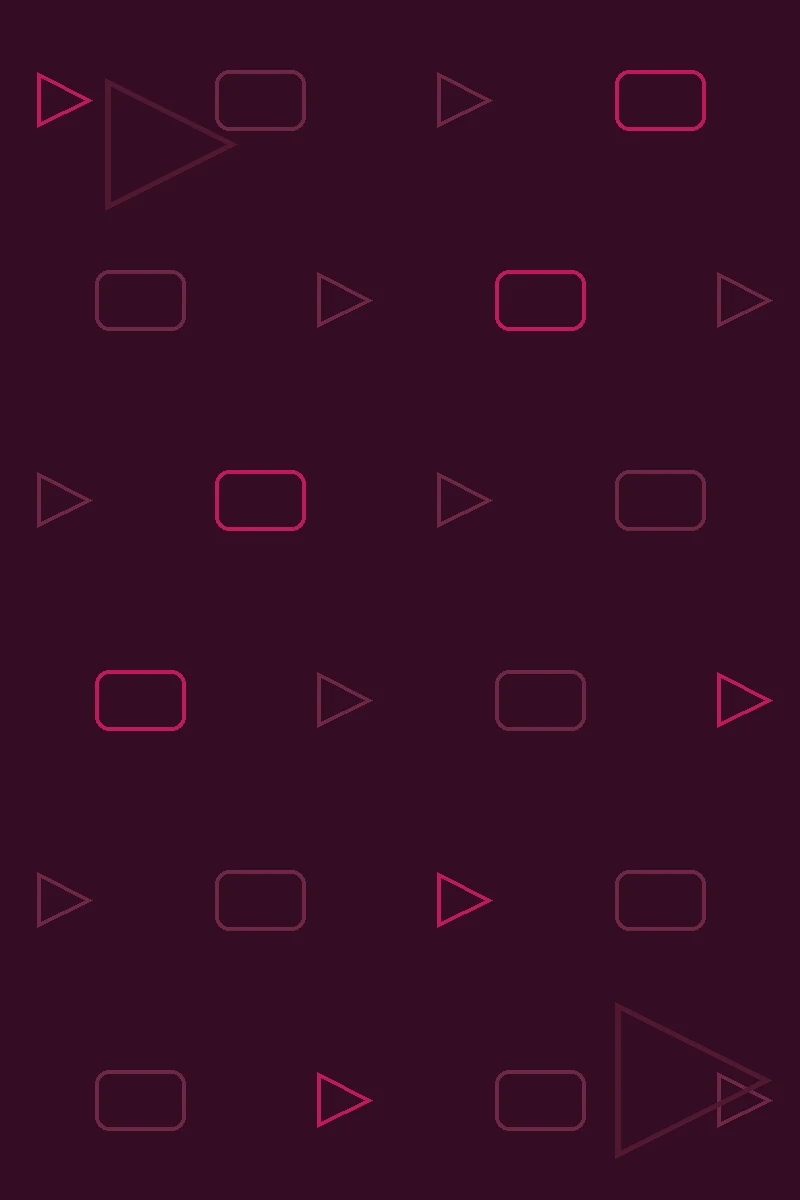
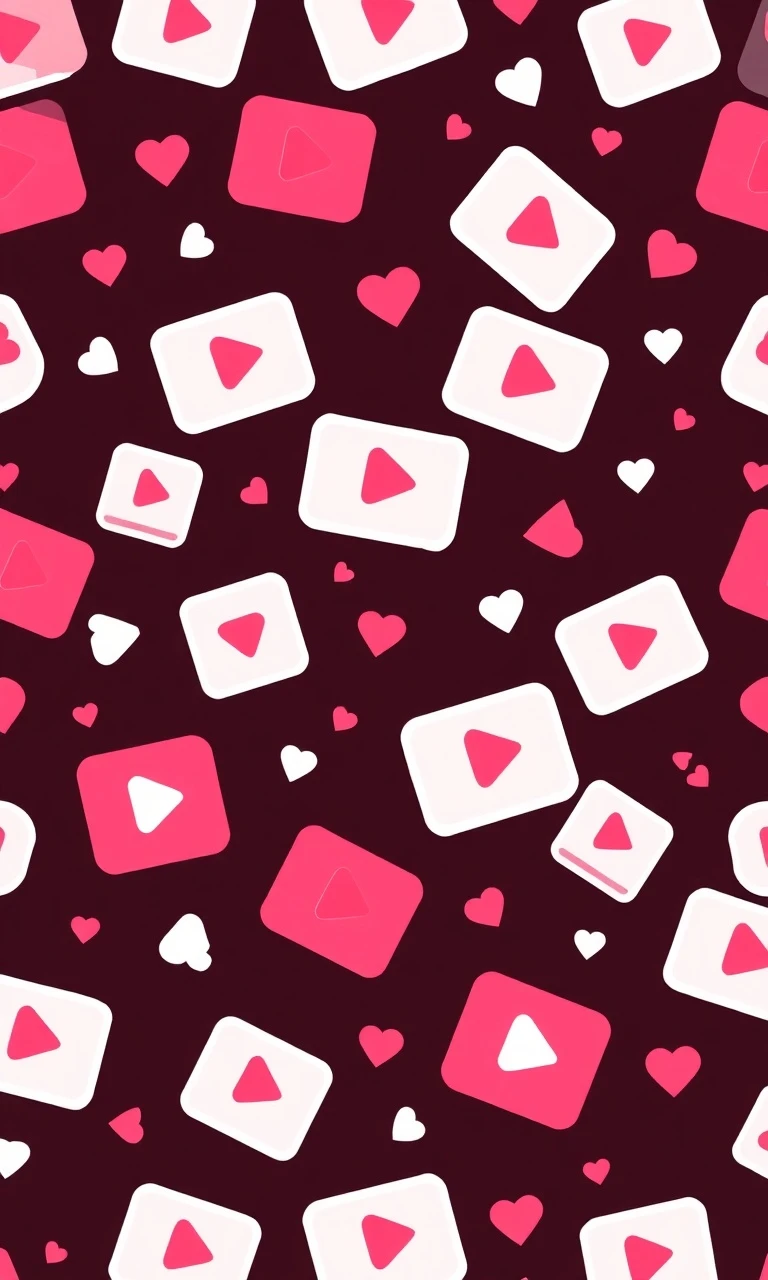
Replace Pillow-placeholder deck backgrounds with real illustrated art (#46)
* Replace Pillow-placeholder deck backgrounds with real illustrated art

The Slice 6 delivery hand-composed both backgrounds with Python/Pillow
because no image-gen service was available at the time. Swap in real
AI-generated illustrations now that pollinations.ai is configured: a
sunset-road scene for Motorcycles, a play-button/video-feed grid for
lucys-youtubers. Pure asset swap, no code or manifest change needed.

* Record on-device verification of background alpha visibility

A physical device became available after the PR's initial delivery
notes were written. Closes out the deferred check from the original
slice-6 delivery: the 25%-alpha/scrim composite reads as intended
atmosphere, not effectively invisible, without hurting stat-text
legibility.

---------

diff --git a/docs/changelog.md b/docs/changelog.md
@@ -20,3 +20,4 @@
 - 2026-08-02 — [#30](https://github.com/rustycoopes/top-trumps-game/issues/30) Slice 5 — Remaining surfaces & deck accents (card-visual-identity): the win-pile grid now renders mini cards instead of bare thumbnails, and tapping one opens it full-size and read-only, closing PRD story 49; the deck picker is now a grid of themed mini cards (accent colour + representative image) instead of plain buttons, backed by a new `DeckSummary.heroImageFile` resolved once in `AppGraph.listDecks()`; the result screen now names `MaterialTheme` typography/colours explicitly instead of only inheriting them implicitly; and `lucys-youtubers`' accent colour moved from `#FF0000` (≈4.0:1 contrast, failing the PRD's ≥4.5:1 bar) to a hot-pink `#C2185B` (≈5.87:1) — Motorcycles' existing accent already passed and was left unchanged. No second `ImageLoader` instance was introduced anywhere in this slice. Code review (run in parallel by `code-review-master` and `code-quality-guardian`) found and fixed a real bug where the new tap targets' `.clickable()` sat outside the card's own internal `clip` in the composed modifier chain, letting the tap ripple bleed past the card's rounded corners; three minor nits (a stale doc comment, a missing `fillMaxSize()`, an inconsistent `remember` key) were also fixed. The acceptance criterion needing two physical devices (a `theme`-bearing manifest doesn't disturb the handshake) was **not** verified this session, none was available. See [slice-5-remaining-surfaces.md § Delivered](features/card-visual-identity/WBS/slice-5-remaining-surfaces.md#delivered).
 - 2026-08-06 — [#40](https://github.com/rustycoopes/top-trumps-game/issues/40) Slice 2 — Lobby theme (second-round-updates): reskinned `LobbyScreen.kt` onto a new "The Pack" warm-tabletop `LobbyPalette` — reused from `card-visual-identity`'s `DeckTheme.DEFAULT` accent rather than a new colour — after mocking up and signing off on one of three visual directions first. Card-shaped peer rows with a hard-offset drop shadow, a dashed-border/divider motif, and the invite/inbound/outbound dialogs all picked up the theme; name entry, settings, and manual-connect stayed on Material defaults, as scoped. `TwoDeviceMatchScreen.kt`'s `StatusScreen` was deliberately left for a follow-up, [#42](https://github.com/rustycoopes/top-trumps-game/issues/42). Code review (run in parallel by `code-review-master` and `code-quality-guardian`) found and fixed a ripple-clipping bug, a missing `role = Role.Button` accessibility regression on two `Modifier.clickable` call sites, a sub-48dp touch target on the "Play Solo" CTA, and an invite dialog's "Accept" button silently downgraded from a filled `Button` to a `TextButton`. Two physical devices were not available this session to verify the discovery/invite/tiebreak flow underneath the new visuals — that pass is still outstanding. See [slice-2-lobby-theme.md § Delivered](features/second-round-updates/WBS/slice-2-lobby-theme.md#delivered).
 - 2026-08-06 — [#41](https://github.com/rustycoopes/top-trumps-game/issues/41) Slice 6 — Themed card backgrounds (card-visual-identity): a new optional `theme.backgroundImage` manifest field, resolved/validated exactly like `heroCardId` (degrades to no background at runtime, fails an all-decks CI test if malformed); `CardPalette` gained a `backgroundImage` field so every existing card-rendering call site picks it up automatically with no new parameter threading; the background renders full-bleed behind the card face at a fixed 25% alpha with a fixed-alpha scrim over the title banner/stat table, and is decoded once per deck (not per card) via Coil's own memory cache rather than a hand-rolled one. A new static drop shadow (never present mid-flip/mid-slide) was wired to exactly four surfaces: the hero card, the win-pile mini-card grid, an opened full-size pile card, and deck-picker tiles — correcting the WBS's framing along the way, since the PRD's originally-planned hero-card shadow had in fact never been implemented in any prior slice. Background art for Motorcycles and `lucys-youtubers` was hand-composed with Python/Pillow rather than AI-generated, since no image-gen service was available this session (see follow-up [#45](https://github.com/rustycoopes/top-trumps-game/issues/45)). Code review (run in parallel by `code-review-master` and `code-quality-guardian`) found and fixed a real crash risk — `CardGeometry.width`/`height` can legitimately round to `0.dp`, and Coil's `ImageRequest.size()` throws synchronously (not just failing the async load) on a non-positive dimension — plus two minor duplication nits. Flip/slide frame-rate impact and the shipped alpha constants' on-device visibility were **not** verified this session, none was available. See [slice-6-themed-card-backgrounds.md § Delivered](features/card-visual-identity/WBS/slice-6-themed-card-backgrounds.md#delivered).
+- 2026-08-06 — [#45](https://github.com/rustycoopes/top-trumps-game/issues/45) Replace Pillow-placeholder deck backgrounds with real illustrated art: both `decks/motorcycles/background.webp` and `decks/lucys-youtubers/background.webp` swapped for AI-generated illustrations (pollinations.ai, `flux` model) after the free/anonymous Hugging Face FLUX space failed 4/4 attempts with ~30-minute timeouts. Pure asset swap — no manifest, source, or test change; `AllDecksThemeTest` re-confirmed passing. Code review (run in parallel by `code-review-master` and `code-quality-guardian`) found no issues. Also closed out the original slice-6 delivery's deferred on-device check: installed and drove the build on a physical device, confirming the background reads clearly at the shipped 25%-alpha/scrim composite without compromising stat-text legibility. See [slice-6-themed-card-backgrounds.md § Delivered](features/card-visual-identity/WBS/slice-6-themed-card-backgrounds.md#delivered).

diff --git a/docs/features/card-visual-identity/WBS/slice-6-themed-card-backgrounds.md b/docs/features/card-visual-identity/WBS/slice-6-themed-card-backgrounds.md
@@ -147,3 +147,37 @@ background image reads as visible "atmosphere" at the shipped alpha constants (0
 0.85 scrim ≈ 3.75% of the stat-table zone's final pixel colour) rather than effectively invisible —
 if it turns out too faint on-device, the fix is tuning `BackgroundImageAlpha`/`CardTextScrimAlpha`
 in `CardFrame.kt`, not a code-structure change.
+
+### Follow-up: real illustrated art
+
+Issue [#45](https://github.com/rustycoopes/top-trumps-game/issues/45), branch
+`slice-6-illustrated-backgrounds`, 2026-08-06.
+
+Replaced both hand-composed Pillow placeholders with real AI-generated illustrations via
+pollinations.ai (`flux` model, HD quality): `decks/motorcycles/background.webp` is now a stylised
+sunset road illustration (dark charcoal ground, a bold red sun over a curving asphalt road with
+dashed lane markings), and `decks/lucys-youtubers/background.webp` is a scattered grid of play-button
+video-feed cards and hearts on a dark maroon ground. Both are 768×1280 WebP — a different source
+resolution than the placeholders' 800×1200, which needs no code change since `AssetTrumpCard` requests
+these at `ContentScale.Crop` against the live `CardGeometry` size, not the asset's native resolution.
+No manifest, source, or test file changed — both decks' `theme.backgroundImage` still resolves to
+`"background.webp"` by filename, and `AllDecksThemeTest` was re-run (pinned JDK 17) to confirm.
+
+The public Hugging Face FLUX.1-schnell space (the originally-planned free/anonymous path) failed 4/4
+generation attempts with a ~30-minute silent timeout each, pointing at anonymous-queue congestion
+rather than a transient blip; pollinations.ai was used instead once its API key had a funded balance.
+
+Code review (code-review-master + code-quality-guardian, run in parallel) found no issues — this is a
+two-binary-file asset swap with no source changes, both files validated as well-formed WebP at a
+consistent 768×1280, and no lint/static-analysis rule applies to binary assets. One non-blocking
+observation carried forward rather than acted on: `lucys-youtubers/background.webp` is visually busier
+(more, smaller shapes) than `motorcycles/background.webp`'s sparser scene — both read clearly at full
+opacity, but which reads better at the shipped 25%-alpha/scrim composite is the same on-device call
+already deferred above, not something to guess at without a physical device.
+
+A physical device became available after the above was written, closing out that deferred check: built
+and installed via `./gradlew :app:installDebug`, launched, and driven through the deck picker into a
+live `lucys-youtubers` card. The background reads clearly as intended atmosphere at the shipped alpha
+— visible but subordinate to the stat text, which stays fully legible — confirming the 25%-image ×
+85%-scrim composite is not too faint on-device, the open question the original slice-6 delivery left
+outstanding.
